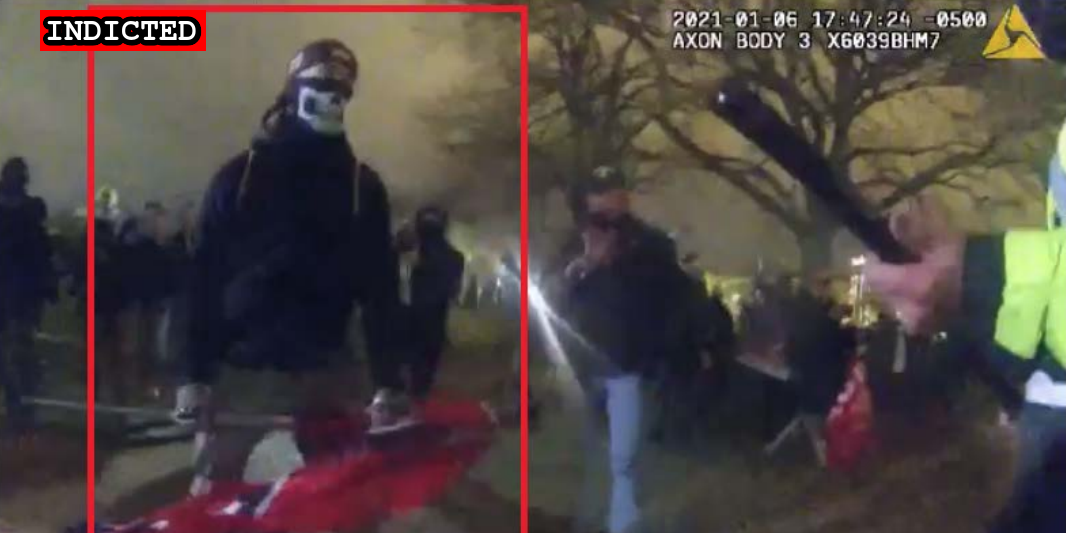
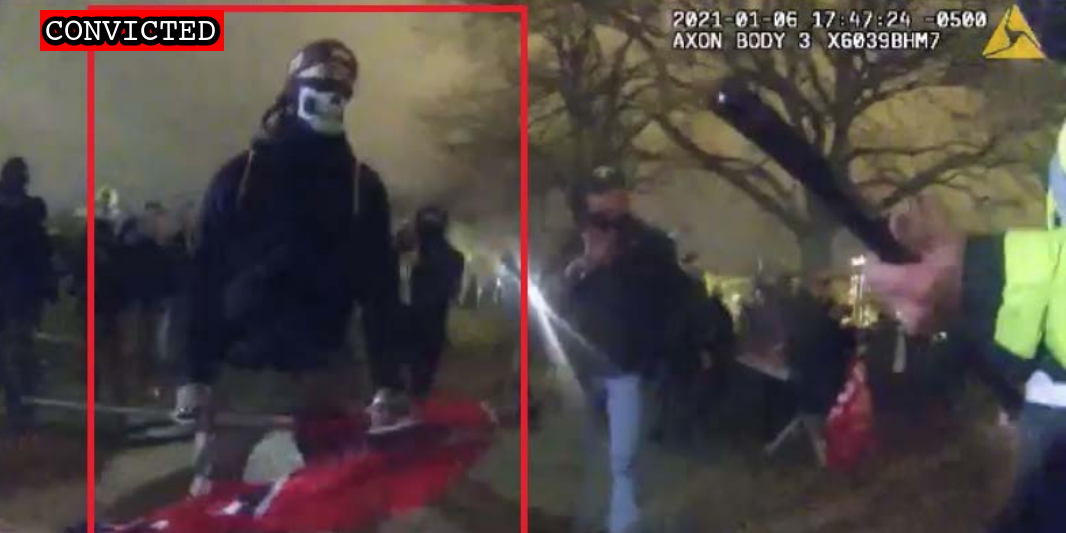
Balir conviction

Changed region(s): [[0.031, 0.0, 0.2167, 0.1201]]

diff --git a/docs/_suspects/david-blair.md b/docs/_suspects/david-blair.md
@@ -4,15 +4,15 @@ lastName: Blair
 hashtag: DavidAlanBlair
 aka:
 residence: Maryland
-status: Indicted
+status: Convicted
 date: 2021-02-09
 charged: 2021-02-09
 indicted: 2021-03-05
-convicted:
+convicted: 2022-03-29
 sentenced:
 dismissed:
 deceased:
-plea_hearing:
+plea_hearing: 2022-03-29
 sentencing:
 age:
 occupation:
@@ -34,8 +34,13 @@ published: true
 caseNumber: 1:21-cr-186
 videos:
 charges:
+  - code: 18 USC § 231(a)(3)
+    title: Civil Disorder
+    url: https://www.law.cornell.edu/uscode/text/18/231
+    felony: true
 sentence:
 ---
+
 - [News Report](https://www.baltimoresun.com/news/crime/bs-md-ci-cr-blair-capitol-search-warrant-20210202-x4uzotfxhng5ddglhnl5npeonu-story.html)
 - [Complaint](https://extremism.gwu.edu/sites/g/files/zaxdzs2191/f/David%20Blair%20Criminal%20Complaint.pdf)
 - [Statement of Facts](https://www.justice.gov/usao-dc/case-multi-defendant/file/1371291/download)
